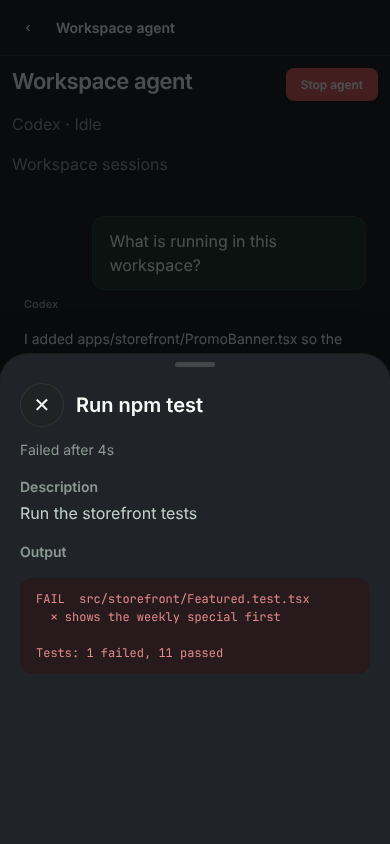
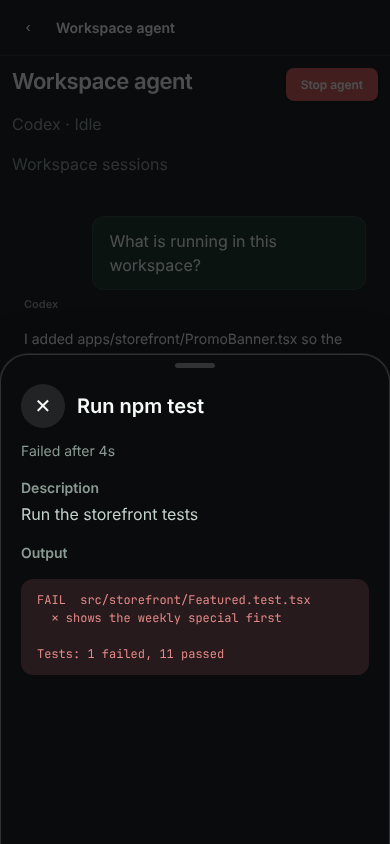
style(DesignSystem): make the bottom sheet canvas black
The overlay grey read blue-tinted and flat. The sheet is now the canvas
black lifted by one white hairline along its edge, with the close button
and code blocks on neutral white layers.

Claude-Session: https://claude.ai/code/session_01WqebHz7PXVEQwvLnjWQAQ8

diff --git a/AgentUp.DesignSystem/dist/web/agent-up.css b/AgentUp.DesignSystem/dist/web/agent-up.css
@@ -1441,16 +1441,18 @@
 
 /* Bottom sheet (Mobile). One transcript item opened to read: a large rounded sheet over a scrim,
  * a title you can read at arm's length, and the content as prose and code rather than a debug
- * panel. Half height first, dragged up to full, dragged down to close. No hairline: the overlay
- * surface and the scrim already say it is in front. The close button means the gesture is never
- * the only way out. */
+ * panel. Half height first, dragged up to full, dragged down to close. The sheet is the canvas
+ * black, not a tinted grey: a single white hairline along its top edge is what lifts it off the
+ * dimmed screen, and everything inside it is a neutral white layer. The close button means the
+ * gesture is never the only way out. */
 .au-sheet {
   display: flex;
   flex-direction: column;
   overflow: hidden;
   color: var(--au-color-text-primary);
-  background: var(--au-color-surface-overlay);
-  border: 0;
+  background: var(--au-color-canvas);
+  border: 1px solid var(--au-color-border-strong);
+  border-bottom: 0;
   border-radius: 1.75rem 1.75rem 0 0;
   box-shadow: var(--au-shadow-overlay);
 }
@@ -1494,11 +1496,11 @@
   width: 2.75rem;
   height: 2.75rem;
   color: var(--au-color-text-primary);
-  background: var(--au-color-surface-hover);
-  border: 1px solid var(--au-color-border-subtle);
+  background: var(--au-color-state-active);
+  border: 0;
   border-radius: var(--au-radius-pill);
 }
-.au-sheet-close:hover { background: var(--au-color-state-hover); }
+.au-sheet-close:hover { background: var(--au-color-border-strong); }
 .au-sheet-close-glyph {
   color: var(--au-color-text-primary);
   font-size: var(--au-font-size-lg);
@@ -1521,7 +1523,7 @@
 }
 .au-sheet-code {
   padding: var(--au-space-3) var(--au-space-4);
-  background: var(--au-color-surface-raised);
+  background: var(--au-color-state-hover);
   border-radius: var(--au-radius-lg);
 }
 .au-sheet-code--failed { background: var(--au-color-surface-danger); }

diff --git a/AgentUp.DesignSystem/dist/web/new-ui.css b/AgentUp.DesignSystem/dist/web/new-ui.css
@@ -1441,16 +1441,18 @@
 
 /* Bottom sheet (Mobile). One transcript item opened to read: a large rounded sheet over a scrim,
  * a title you can read at arm's length, and the content as prose and code rather than a debug
- * panel. Half height first, dragged up to full, dragged down to close. No hairline: the overlay
- * surface and the scrim already say it is in front. The close button means the gesture is never
- * the only way out. */
+ * panel. Half height first, dragged up to full, dragged down to close. The sheet is the canvas
+ * black, not a tinted grey: a single white hairline along its top edge is what lifts it off the
+ * dimmed screen, and everything inside it is a neutral white layer. The close button means the
+ * gesture is never the only way out. */
 .au-sheet {
   display: flex;
   flex-direction: column;
   overflow: hidden;
   color: var(--au-color-text-primary);
-  background: var(--au-color-surface-overlay);
-  border: 0;
+  background: var(--au-color-canvas);
+  border: 1px solid var(--au-color-border-strong);
+  border-bottom: 0;
   border-radius: 1.75rem 1.75rem 0 0;
   box-shadow: var(--au-shadow-overlay);
 }
@@ -1494,11 +1496,11 @@
   width: 2.75rem;
   height: 2.75rem;
   color: var(--au-color-text-primary);
-  background: var(--au-color-surface-hover);
-  border: 1px solid var(--au-color-border-subtle);
+  background: var(--au-color-state-active);
+  border: 0;
   border-radius: var(--au-radius-pill);
 }
-.au-sheet-close:hover { background: var(--au-color-state-hover); }
+.au-sheet-close:hover { background: var(--au-color-border-strong); }
 .au-sheet-close-glyph {
   color: var(--au-color-text-primary);
   font-size: var(--au-font-size-lg);
@@ -1521,7 +1523,7 @@
 }
 .au-sheet-code {
   padding: var(--au-space-3) var(--au-space-4);
-  background: var(--au-color-surface-raised);
+  background: var(--au-color-state-hover);
   border-radius: var(--au-radius-lg);
 }
 .au-sheet-code--failed { background: var(--au-color-surface-danger); }

diff --git a/AgentUp.DesignSystem/dist/web/screenshots.css b/AgentUp.DesignSystem/dist/web/screenshots.css
@@ -1441,16 +1441,18 @@
 
 /* Bottom sheet (Mobile). One transcript item opened to read: a large rounded sheet over a scrim,
  * a title you can read at arm's length, and the content as prose and code rather than a debug
- * panel. Half height first, dragged up to full, dragged down to close. No hairline: the overlay
- * surface and the scrim already say it is in front. The close button means the gesture is never
- * the only way out. */
+ * panel. Half height first, dragged up to full, dragged down to close. The sheet is the canvas
+ * black, not a tinted grey: a single white hairline along its top edge is what lifts it off the
+ * dimmed screen, and everything inside it is a neutral white layer. The close button means the
+ * gesture is never the only way out. */
 .au-sheet {
   display: flex;
   flex-direction: column;
   overflow: hidden;
   color: var(--au-color-text-primary);
-  background: var(--au-color-surface-overlay);
-  border: 0;
+  background: var(--au-color-canvas);
+  border: 1px solid var(--au-color-border-strong);
+  border-bottom: 0;
   border-radius: 1.75rem 1.75rem 0 0;
   box-shadow: var(--au-shadow-overlay);
 }
@@ -1494,11 +1496,11 @@
   width: 2.75rem;
   height: 2.75rem;
   color: var(--au-color-text-primary);
-  background: var(--au-color-surface-hover);
-  border: 1px solid var(--au-color-border-subtle);
+  background: var(--au-color-state-active);
+  border: 0;
   border-radius: var(--au-radius-pill);
 }
-.au-sheet-close:hover { background: var(--au-color-state-hover); }
+.au-sheet-close:hover { background: var(--au-color-border-strong); }
 .au-sheet-close-glyph {
   color: var(--au-color-text-primary);
   font-size: var(--au-font-size-lg);
@@ -1521,7 +1523,7 @@
 }
 .au-sheet-code {
   padding: var(--au-space-3) var(--au-space-4);
-  background: var(--au-color-surface-raised);
+  background: var(--au-color-state-hover);
   border-radius: var(--au-radius-lg);
 }
 .au-sheet-code--failed { background: var(--au-color-surface-danger); }

diff --git a/AgentUp.DesignSystem/src/product.css b/AgentUp.DesignSystem/src/product.css
@@ -974,16 +974,18 @@
 
 /* Bottom sheet (Mobile). One transcript item opened to read: a large rounded sheet over a scrim,
  * a title you can read at arm's length, and the content as prose and code rather than a debug
- * panel. Half height first, dragged up to full, dragged down to close. No hairline: the overlay
- * surface and the scrim already say it is in front. The close button means the gesture is never
- * the only way out. */
+ * panel. Half height first, dragged up to full, dragged down to close. The sheet is the canvas
+ * black, not a tinted grey: a single white hairline along its top edge is what lifts it off the
+ * dimmed screen, and everything inside it is a neutral white layer. The close button means the
+ * gesture is never the only way out. */
 .au-sheet {
   display: flex;
   flex-direction: column;
   overflow: hidden;
   color: var(--au-color-text-primary);
-  background: var(--au-color-surface-overlay);
-  border: 0;
+  background: var(--au-color-canvas);
+  border: 1px solid var(--au-color-border-strong);
+  border-bottom: 0;
   border-radius: 1.75rem 1.75rem 0 0;
   box-shadow: var(--au-shadow-overlay);
 }
@@ -1027,11 +1029,11 @@
   width: 2.75rem;
   height: 2.75rem;
   color: var(--au-color-text-primary);
-  background: var(--au-color-surface-hover);
-  border: 1px solid var(--au-color-border-subtle);
+  background: var(--au-color-state-active);
+  border: 0;
   border-radius: var(--au-radius-pill);
 }
-.au-sheet-close:hover { background: var(--au-color-state-hover); }
+.au-sheet-close:hover { background: var(--au-color-border-strong); }
 .au-sheet-close-glyph {
   color: var(--au-color-text-primary);
   font-size: var(--au-font-size-lg);
@@ -1054,7 +1056,7 @@
 }
 .au-sheet-code {
   padding: var(--au-space-3) var(--au-space-4);
-  background: var(--au-color-surface-raised);
+  background: var(--au-color-state-hover);
   border-radius: var(--au-radius-lg);
 }
 .au-sheet-code--failed { background: var(--au-color-surface-danger); }

diff --git a/AgentUp.DesignSystem/dist/native/index.js b/AgentUp.DesignSystem/dist/native/index.js
@@ -1240,9 +1240,11 @@ export const agentUpTheme = Object.freeze({
     }),
     sheet: Object.freeze({
       color: "#f5fbf7",
-      backgroundColor: "#202428",
-      borderWidth: 0,
-      borderColor: "#00000000",
+      backgroundColor: "#0a0b0c",
+      borderWidth: 1,
+      borderColor: "#ffffff29",
+      borderBottomWidth: 0,
+      borderBottomColor: "#00000000",
       borderRadius: 28,
     }),
     sheetGrabber: Object.freeze({
@@ -1275,9 +1277,9 @@ export const agentUpTheme = Object.freeze({
       width: 44,
       height: 44,
       color: "#f5fbf7",
-      backgroundColor: "#202224",
-      borderWidth: 1,
-      borderColor: "#ffffff14",
+      backgroundColor: "#ffffff1a",
+      borderWidth: 0,
+      borderColor: "#00000000",
       borderRadius: 999,
     }),
     sheetCloseGlyph: Object.freeze({
@@ -1303,7 +1305,7 @@ export const agentUpTheme = Object.freeze({
     sheetCode: Object.freeze({
       paddingHorizontal: 16,
       paddingVertical: 12,
-      backgroundColor: "#191c1f",
+      backgroundColor: "#ffffff0f",
       borderRadius: 12,
     }),
     sheetCodeFailed: Object.freeze({

diff --git a/AgentUp.DesignSystem/dist/native/new-ui.js b/AgentUp.DesignSystem/dist/native/new-ui.js
@@ -1453,9 +1453,11 @@ export const newUiTheme = Object.freeze({
     }),
     sheet: Object.freeze({
       color: "#f5fbf7",
-      backgroundColor: "#202428",
-      borderWidth: 0,
-      borderColor: "#00000000",
+      backgroundColor: "#0a0b0c",
+      borderWidth: 1,
+      borderColor: "#ffffff29",
+      borderBottomWidth: 0,
+      borderBottomColor: "#00000000",
       borderRadius: 28,
     }),
     sheetGrabber: Object.freeze({
@@ -1494,9 +1496,9 @@ export const newUiTheme = Object.freeze({
       width: 44,
       height: 44,
       color: "#f5fbf7",
-      backgroundColor: "#202224",
-      borderWidth: 1,
-      borderColor: "#ffffff14",
+      backgroundColor: "#ffffff1a",
+      borderWidth: 0,
+      borderColor: "#00000000",
       borderRadius: 999,
     }),
     sheetCloseGlyph: Object.freeze({
@@ -1524,7 +1526,7 @@ export const newUiTheme = Object.freeze({
       paddingRight: 16,
       paddingBottom: 12,
       paddingLeft: 16,
-      backgroundColor: "#191c1f",
+      backgroundColor: "#ffffff0f",
       borderRadius: 12,
     }),
     sheetCodeFailed: Object.freeze({

diff --git a/docs/developer-guide/repo/design-system.md b/docs/developer-guide/repo/design-system.md
@@ -180,8 +180,9 @@ Desktop is the reference rendering:
   the selected tint plus a 2px accent rule. Code is preformatted so leading
   spaces and tabs stay visible. Do not dump a file into one text
   node, and do not paint syntax with accent green.
-- A Mobile bottom sheet is `.au-sheet`: the overlay surface with a 28px top
-  radius and no hairline, `.au-sheet-grabber`, a round `.au-sheet-close`, a
+- A Mobile bottom sheet is `.au-sheet`: canvas black with a 28px top radius
+  and one strong white hairline along its edge, never a tinted grey. Inside it
+  everything is a neutral white layer: `.au-sheet-grabber`, a round `.au-sheet-close`, a
   `.au-sheet-title`, a quiet `.au-sheet-meta` facts line, then
   `.au-sheet-content` holding `.au-sheet-label` / `.au-sheet-body` pairs and
   `.au-sheet-code` blocks. It is a reading surface, never a debug panel: no
